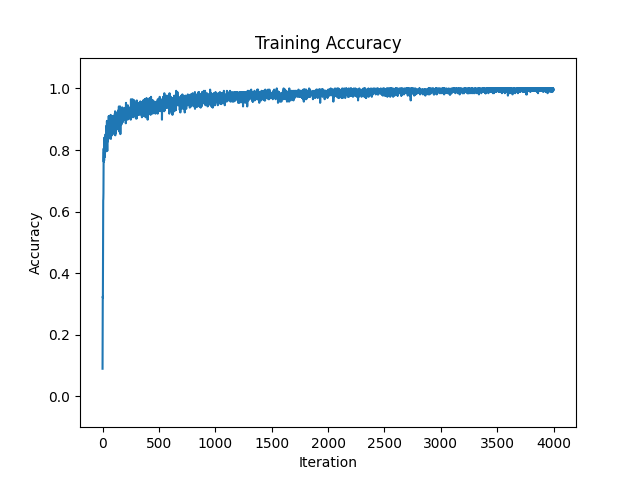
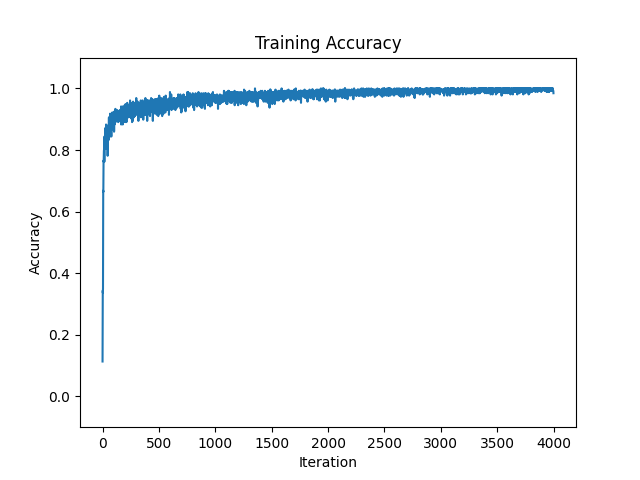
update

Changed region(s): [[0.1562, 0.1562, 0.7188, 0.2812], [0.7812, 0.1875, 0.8438, 0.2188], [0.1562, 0.3125, 0.1875, 0.3438]]

diff --git a/fetcher.py b/fetcher.py
@@ -1,7 +1,10 @@
 import numpy as np
+import requests
+import gzip
+import os
+import hashlib
 
 def fetch(url):
-  import requests, gzip, os, hashlib, numpy
   fp = os.path.join("/tmp", hashlib.md5(url.encode('utf-8')).hexdigest())
   if os.path.isfile(fp):
     with open(fp, "rb") as f:
@@ -10,4 +13,4 @@ def fetch(url):
     with open(fp, "wb") as f:
       dat = requests.get(url).content
       f.write(dat)
-  return numpy.frombuffer(gzip.decompress(dat), dtype=np.uint8).copy()
+  return np.frombuffer(gzip.decompress(dat), dtype=np.uint8).copy()

diff --git a/main_np.py b/main_np.py
@@ -24,7 +24,7 @@ if __name__ == '__main__':
     batch_size = 256
     losses, accuracies = [], []
     
-    for i in tqdm(range(3000), desc = 'Training Numpy MLP'):
+    for i in tqdm(range(4000), desc = 'Training Numpy MLP'):
         sample = np.random.randint(0, X_train.shape[0], size=(batch_size))
         X = X_train[sample].reshape((-1, 28*28))
         Y = Y_train[sample]

diff --git a/README.md b/README.md
@@ -17,7 +17,7 @@ If you are trying to understand what goes on "under the hood" in neural networks
 |Comparions| Test Accuracy |
 |-----------|----------|
 |[geohot](https://github.com/geohot/ai-notebooks/blob/master/mnist_from_scratch.ipynb)| 0.9288    | 
-|**Ours**| 0.9617    | 
+|**Ours**| 0.9633    | 
 
 
 
@@ -32,5 +32,5 @@ If you are trying to understand what goes on "under the hood" in neural networks
 |Comparions| Test Accuracy |
 |-----------|----------|
 |[geohot](https://github.com/geohot/ai-notebooks/blob/master/mnist_from_scratch.ipynb)| 0.9635    | 
-|**Ours**| 0.9783    | 
+|**Ours**| 0.9805    | 
 
